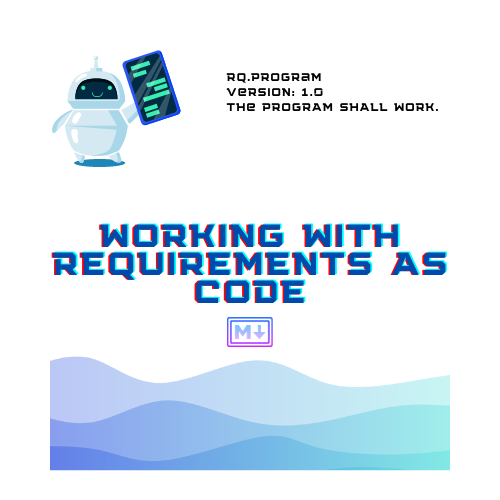
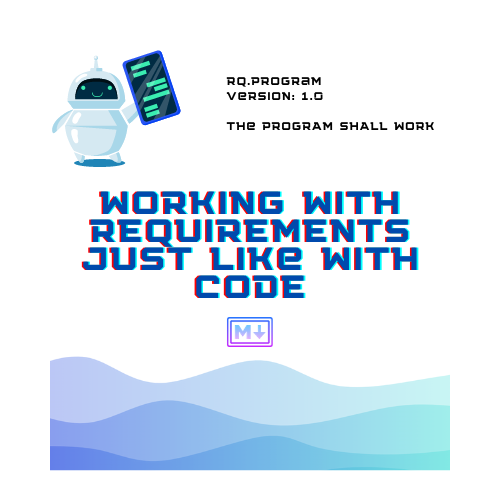
Updating draft of the new blog post.

Changed region(s): [[0.09, 0.36, 0.9, 0.63], [0.45, 0.12, 0.87, 0.27]]

diff --git a/source/_drafts/requirements-as-code.md b/source/_drafts/requirements-as-code.md
@@ -1,6 +1,6 @@
 ---
-title: Working with requirements as code
-description: An article about how TestFlows enables working with requirements as code using Markdown
+title: Working With Requirements Just Like With Code
+description: Article about how TestFlows enables working with requirements just like with code using software requirements specifications written in Markdown
 date: 2023-09-18
 author: Vitaliy Zakaznikov
 image:
@@ -8,3 +8,240 @@ image:
 icon: fas fa-glasses pt-5 pb-5
 ---
 
+*"Requirements are the starting point of any design"*, this is a quote from the [presentation given by Nicholas D. Kefalas](https://www.youtube.com/watch?v=3afHlAwBudM), 
+who is a Senior Technical Officer at Sikorsky Aircraft - Lockheed Martin. Very innocent quote that most people 
+will agree with but somehow is not applied or scarcely applied to commercial software development process. 
+We are developing too fast and it seems like there is no time to think about the functionality that we are developing or
+much less write it down <!-- more -->.
+
+So do requirements apply to software development and testing? The answer is definitely "yes" as the requirements are the starting point 
+of **any design**. It is universal principle across any field of engineering. It does not matter if you are designing a building, 
+designing an aircraft, developing software for nuclear reactors, trains, or even a simple hello world program. 
+Whether we like it or not requirements have to be handled one way or another as the saying goes “you can run but you can’t hide from them”. 
+When we don’t work with requirements we do pay the price, as skipping them does not come with zero-cost but actually 
+creates a drag on the whole software development process irrespective of what the software’s functionality.
+
+So, why work with requirements - because by definition of testing and quality it is all about the requirements!
+Therefore, in this article we'll explore how {% testflows %} enables you to working with requirements just like with code.
+
+
+{% blockquote Nicholas D. Kefalas, Senior Technical Officer at Sikorsky Aircraft/Lockheed Martin - https://www.youtube.com/watch?v=3afHlAwBudM System Engineering Requirements %}
+ “Requirements are the starting point of any design”
+{% endblockquote %}
+
+
+
+
+# Relationship between requirements and testers
+
+Can we find a relationship between “testers” and “requirements”? Is there such a relationship?
+Where do requirements come into play when we are testing software? I’ve taken some definitions from [ISTQB](https://www.istqb.org/) (International Software 
+Testing Qualifications Board) [glossary](https://glossary.istqb.org/en_US/search) to help us get started.
+
+First, let’s see the term tester is defined. ISTQB defines a [tester](https://glossary.istqb.org/en_US/search?term=tester%20&exact_matches_first=true) as "a person who 
+performs testing". Where [testing](https://glossary.istqb.org/en_US/search?term=testing&exact_matches_first=true) is defined as "the process within the software development lifecycle that evaluates the quality of 
+a component or a system". The key part of the definition there that testing is related to evaluating “quality”, what is quality?
+[Quality](https://glossary.istqb.org/en_US/term/quality-4) is defined as "a degree to which a work product satisfies
+stated and implied needs of its stakeholders". No direct mention of 
+requirements so far, how is ISTQB define a requirement? Well, it says that [a requirement](https://glossary.istqb.org/en_US/term/requirement-4-2) is "a provision that contains criteria to be fulfilled".
+
+Well, interesting, no straight path from tester to requirements here on the surface. This is maybe one of the problems, that requirements 
+are not highlighted enough and the connection to what you are doing to requirements might not be obvious as it should be given that 
+remember what Nicolas D. Kefalas said, “Requirements are the starting point of any design”, so if requirements are at the starting 
+point surely they should be given their place at the end of the design implementation process where testing is, as testers performs 
+testing but testing can only be performed after implementation and implementation follows after the design. Did we lose it somehow 
+in the process? We all know that in most cases requirements are lost and they are not clearly present or driving either design, 
+development or testing.
+
+Let's take the liberty of redefining these terms close to how {% testflows %} uses them to fully implement enterprise level software quality assurance process.
+
+First of all, a tester for me at the beginning of my career was not a person but a multi-million,
+large, piece of advanced test equipment sitting on a factory production floor. So with this in mind a more general definition of a tester
+is that a tester is anything that performs testing and a person would be a special case of that. Not a big deal. What about
+testing that a tester performs? We can shorten it and simply define testing as an act of evaluating quality, where the key part is quality. 
+The definition of testing is similar to the ISTQB's definition if you remove the secondary information. Where the really difference is,
+is in the definition of quality itself. 
+We define quality as satisfying requirements, definitely not some needs, especially needs that could be stated or implied. I surely don’t 
+want to guess what the implied needs are. Why guess? If there are implied needs, you might as well discuss and state them explicitly. So nothing 
+implicit is permitted. Only clearly stated requirements. We also usually think of quality as either 
+being there or not being there. Where quality is found when all requirements are satisfied. So definitely not the same. ISTQB uses the word 
+*need* in the definition of quality but *need* in their glossary is not defined. Do I need it or I don’t? How do I know? One could say 
+that “stated and implied needs of its stakeholders” means requirements, however the definition of what a requirement is is also not very clear.
+Instead the definition that we use for a requirement is that a requirement is a description of a behavior.
+
+
+> - "Requiremnet is a definition of a behavior"
+
+We use these definitions in our implementing software quality assurance process and it allows us to
+relate testing in general and tester activities specifically to requirements in a very straightforward path. 
+Where the key part is that testing is the act of evaluating if a product satisfies requirements. Simple and to the point.
+We can take it further and come closer to mathematical formalism by looking closer at what a requirement actually is.
+
+# Defining a requirement more precisely
+
+Given that we've already defined a requirement as a description of a behavior, we can take a step futher and define
+precisely what is a behavior. For this, we can leverage definitions provided by Leslie Lamport 
+in this book [Specifying Systems for TLA+](https://lamport.azurewebsites.net/tla/book.html?back-link=learning.html#book) where he defines a behavior as "an infinite sequence of states” and a state as "an assignment of values to variables". For those of you who have never heard of TLA+ or Leslie Lamport 
+I encourage you to look him up, TLA stands for Temporal Logic of Actions which is a formal specification language designed by Leslie Lamport 
+for the specifying system behavior and he has an excellent introductory [TLA+ video course](https://www.youtube.com/@tlavideocourse8540/videos).  
+
+> - "Behavior is an infinite sequence of states"
+> - "State is an assignment of value to variables"
+> Leslie Lamport, Specifying Systems 
+
+We already tied requirements to behaviors and definition of a behavior and a state has taken us to formal 
+specifications. If you look back at our definitions, we wemt from defining what a tester is to formal specifications. 
+I find it elegant and powerful and that’s why we use these definitions over what ISTQB uses.
+
+Tester performs testing, testing evaluates quality, quality is defined as satisfying requirements, requirements are descriptions of behaviors, behaviors are infinite sequences of states, where a state is an assignment of values to variables. It is beautiful and precise. We went from tester to state and
+funny enough [Carnegie Mellon School of Computer Science](https://www.cs.cmu.edu/afs/cs/academic/class/15671-f95/www/handouts/sm-basics/node1.html) defines a software system as a "very very complicated state machine".
+
+> - "A software system is a very, very complicated state machine."
+> Norman Papernick, Carnegie Mellon School of Computer Science
+
+# Requirements for a requirement
+
+Let’s now look at some main requirements for a requirement. There are six of them:
+
+* requirement SHALL be unique
+* requirement SHALL have a unique identifier
+* requirement by convention SHALL use SHALL
+* requirement SHALL be versioned
+* requirement SHALL have traceable origin and modifications
+* requirement SHALL be written to be testable or verifiable
+
+I’ve introduced you to the SHALL notation and basic requirements. Remember that a requirement is a description of a behavior,
+where a behavior is an infinite sequence of states and a state is an assignment of values to variables. So given that I claim that these six statements are requirements then you should be able to see the behavior, the infinite sequence of states and the assignment of values to variables. Do you? They are all there, you just
+have to get used it to be able to see it. One way to see it is to use your object oriented skills and define a requirement as an object 
+where unique, unique identifier, has-SHALL, versioned, traceable, testable are boolean attributes of this object where each can either 
+be either *true* or *false*. State is assignment of values to variables. Don’t objects have a state?
+
+The last part where requirement must be testable is critical, this establishes a connection between testing and requirements. 
+When you are writing requirements you should think about how they will be tested and when you writing a test you should 
+think about the requirements that you are testing. Next time you are writing a test, think about which requirement is being 
+tested and how that requirement is defined. Was is it a JIRA, developer told you, customer, was even written down?
+
+Ideally, we want to have one-to-one relationship between requirements and tests. However, in general a requirement can be 
+verified by one or more tests and a test can verify one or more requirements. For example, some requirements are generic and 
+are verified by a suite of tests and some tests are written in such a way that it can verify more than one requirement. 
+In general, if you find that your test verifies more than one requirement it should serve as a hint that most likely those 
+requirements should be collapsed into one. Remember, ideally we want to have one-to-one relationship.
+
+The critical part to understanding requirements is that they live **above** the implementation, above the code level. 
+It is hard to convince some developers that code is not documenting the behavior - it is implementing it.
+This is evident from the standard Hello World program. 
+The requirements for the Hello World program can be implemented in many programming languages.
+Therefore, requirements force you to think above the code level. This is very useful, senior software developers understand it as they’ve been bitten
+by experience dealing with errors from trying to do something before thinking about it. Either measure seven times and cut one time or don’t measure and 
+cut seven times. Which one do you prefer?
+
+# Why work with requirements?
+
+One would generally find requirements being formalized in regulated industries where by law you are forced to structure your software 
+development process around them. There are good reasons for it, would you want the airplane fly with the software you have written or tested? 
+Is it good enough? Most likely not. So why we find that working with requirements is useful? Again, first by definition of 
+testing and quality. If you want to get rid of requirements you most likely have to live in a different universe. This one needs them for 
+any design. Remember, “requirements are the starting point of any design”. 
+
+First step to make them practical is to trim any “fat” that we don’t need, I have shown you an example when I provided alternative definitions
+of key concepts which where short and precise. Given that we know that requirements are at the core of testing and quality, we have no other 
+choice but to deal with them. We found that funny enough having requirements for a given feature makes “context switch” between features 
+a much less painless process. I can bring a new engineer and throw them at task and requirements will provide a guide to them.
+They organize the whole quality assurance process. What needs to be done is easy to know, simple, what is the next requirement that needs to be covered?
+Requirements improve communication, as you can share requirements with developers, customers and management to precisely communicate expected functionality.
+Quality assurance team can now actually provide meaningful reports. Most important report is not how many tests have passed or failed, or lines or code 
+that have been hit tests, or any other indirect metrics. The most important report is the **requirements coverage report** that tells us which 
+functionality works and which one doesn’t. I don’t care if it takes ten tests or one million tests. If ten tests pass or one million tests pass, 
+this is meaningless, what customers care about is what works and what does not. Knowing what was not tested is even more important than knowing
+what was tested. You can only know what functionality was tested if you tie your tests to requirements. 
+So if you do the right thing and incorporate requirements into your workflow then you will make your life easier and you’ll move faster 
+and this is what we want - easier and faster.
+
+# Working with requirements
+
+How can we work with requirements that matches software development as close as possible? Simple, work with requirements as code.
+Before we can work with requirements as code we need to understand two core concepts. First, requirements must be written down. 
+Sounds obvious but most of the requirements are not written down. Most of the requirements sit in someone’s head and are never written down. 
+Therefore, you constantly have to ask questions and you constantly forget part of the functionality. It is hard for us to keep all the details
+of even simple programs in our head, so it is impossible to keep track of all of the functionality for any non trivial project.
+Second, written down requirements are grouped into software requirements specification document. Have you seen a software requirements
+specification on the project that you are working on? Have you written one? Most likely no. The key part here that as originally was done,
+one of the best way to keep track of requirements are defining them in a DOCUMENT. Documents were used well before computers were invented
+and they actually work really well. Even today most of the information that is shared is shared using documents.
+
+
+# Writing the SRS
+
+Now, the most important question, who writes the software requirements specification documents? Well, at the end QA team ends up writing
+them given that it usually not done by other teams. Again remember, “requirements are the starting point of any design”, yeah, in most 
+projects this is not followed. However, a professional QA team that understands what needs to be done can’t function without requirements,
+so if they are not given, we write them. At the end of the day, each one of us is responsible for keeping things organized, if the 
+functionality is not organized then we have to do it ourselves. Why? To make our life easier. 
+
+
+## How we write the SRS?
+
+Now, how do we write these specifications that contain requirements? First stage is discovery, like a sponge, we need to suck in all the 
+information that is available for a given feature and put it all into the SRS. The SRS itself is written in Markdown and wait Markdown is 
+code! So working with requirements as code means that by defining requirements in a document written in Markdown we are working with 
+requirements just like with code, we use the same tools, like IDE and git repositories. We get full traceability of origin and modifications
+and it naturally ties in with automated test development. Add or modify a requirement, then commit. Diff, blame, history, you get it all for free!
+
+
+# Example - Google Calculator
+
+Requirements are a fundamental concept so they apply to any software project. Really. Anything that you can think of. 
+Let’s look at a simple example. You know Google? You know if you type “calculator” in the search box you will get a calculator web application?
+Funny enough it is actually not documented, at least I could not find any official documentation for it. Who needs it? I KNOW how to use a calculator,
+I KNOW how it works, but do you really? Can you keep track of all the possible behaviors and corner cases?
+Let’s see how an SRS for a Google calculator can look like. It took me about a day to write it but I already have more than average experience 
+documenting functionality. Actually, documenting functionality is very important skill that you should practice too.
+
+Software requirements specification is a document, a book is also a very long document, so like any document it will have a title and a table 
+of contents to help us navigate it. Here is an example of the first part of the table of contents. Given that it is a document we can 
+add any information to it as we like. Introduction, references with links to relevant resources, pictures, and charts, anything that 
+is relevant to the functionality, we put it all here. It is more than a dry list of requirements, it is a document that after reading 
+should fully describe the functionality of the feature or product at hand. In this case, Google calculator. There is Introduction, 
+and sections that group different functionality together. There is a lot of similarity with user documentation but requirements are 
+usually much more detailed and meet their own requirements like being unique, having a unique identifier, version, use SHALL, being testable.
+What we are looking at is the HTML rendering of the Markdown. We will look at the example Markdown source code but if you have used GitHub 
+or GitLab and written a README for your project then you know what Markdown source code looks like. Nothing special, just a markup language.
+Markdown is not the only one, RestructuredText and LATEX would be other examples. However, Markdown is natively supported by GitHub and GitLab, 
+so while it has its own limitations most developers are familiar with it.
+
+Here is an example of the first two requirements in this SRS. First thing to note is that each requirement has a unique identifier.
+Identifier is specified by a heading starting with RQ. Each requirement has at least one attribute, which is its version.
+Initial version of a requirement by convention is 1.0. Any material changes to a requirement would require us to increment 
+the version so that tests can be updated as needed. Also, note that we prefer not to use numbers as unique identifiers of our requirements. 
+Instead dot notation is used. The dot notation also defines hierarchy. Using dot notation instead of number facilitates moving requirements 
+around as needed. Also renaming requirement prefixes using search and replace is convenient when structure needs to be updated.
+The first requirement talks about when calculator app should be displayed to the user. In this case it says if you search for the “calculator” 
+or similar terms. If you work with requirements you will straightaway notice that “similar terms” is not defined. This means this requirement 
+will have to be updated and “similar terms” will have to be defined as it will be needed for testing. We can add a table with example search terms. 
+The next requirement defines the UI. In this case Google calculator has two views, what I called a Normal View and an Inverse View. The Inverse view 
+is displayed when you click the “Inv” button. It is not shown here but you can try it yourself the next time you use the Google calculator.
+
+The Markdown source code for the SRS look like this. Headings are defined with pound signs and pretty much nothing special if you are familiar with Markdown. 
+The only special thing to worry about is to remember to define a requirement as a heading that starts with RQ and give it a version.
+Anything else becomes the description of the requirement. The description can contain anything you want but not another section. 
+Again, this Markdown source code is diffable and Markdown syntax is familiar to most developers.
+
+Let’s now look at some functionality that one would initially find as trivial. The addition operation. Sounds easy, but is it? 
+Turns out not so simple. For example, handling Infinity is a special case, the behavior is not intuitive
+
+Another corner case is what happens when you add something to an expression that results in an Error? What about incomplete expressions?
+What about pressing addition operator + when it is not allowed like just after opening parenthesis?
+
+What about the cases where you’ve pressed something like 2+ and then instead of a number or expression you have pressed a button for 
+another operation, in some cases the + operator will be overwritten. In some cases it will not. Do we really want to keep this only 
+in our head or is it easier to write this down once and then reference it when needed?
+
+Once we have written the SRS in our structured Markdown, our tooling, TestFlows, can parse it and extract all the requirements 
+and create corresponding requirement objects that we can link against our tests. 
+
+Here is an example of auto generated requirements objects. When writing tests we can import them as needed, and the IDE will 
+actually provide auto-completion. Very easy! Once we have requirements.md and requirements.py the fun starts. Our  QA process 
+becomes professional and easy. Also, it is important to note that QA does not need all of the requirements at once, we just need one!
+As long as we have a requirement we can work on verifying it using tests. Tests can be manual, semi-automated, or automated.
+For us the process is exactly the same. As soon as we have requirements the fun starts. Requirements fundamentally are not a hindrance
+to the speed of software development they are actually required to get it right!
